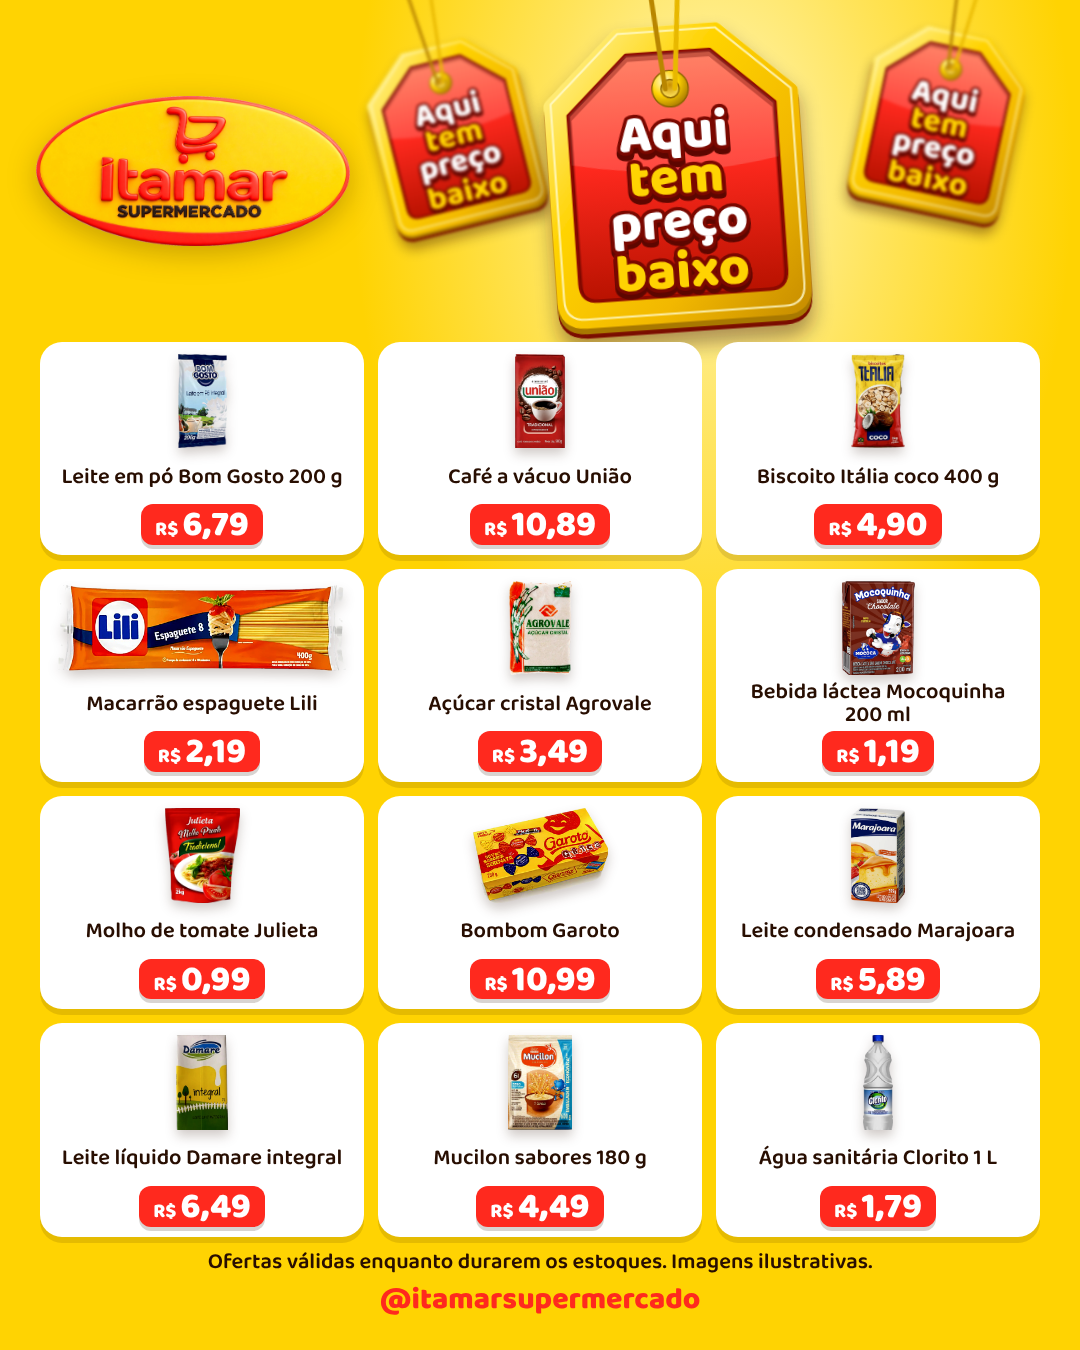
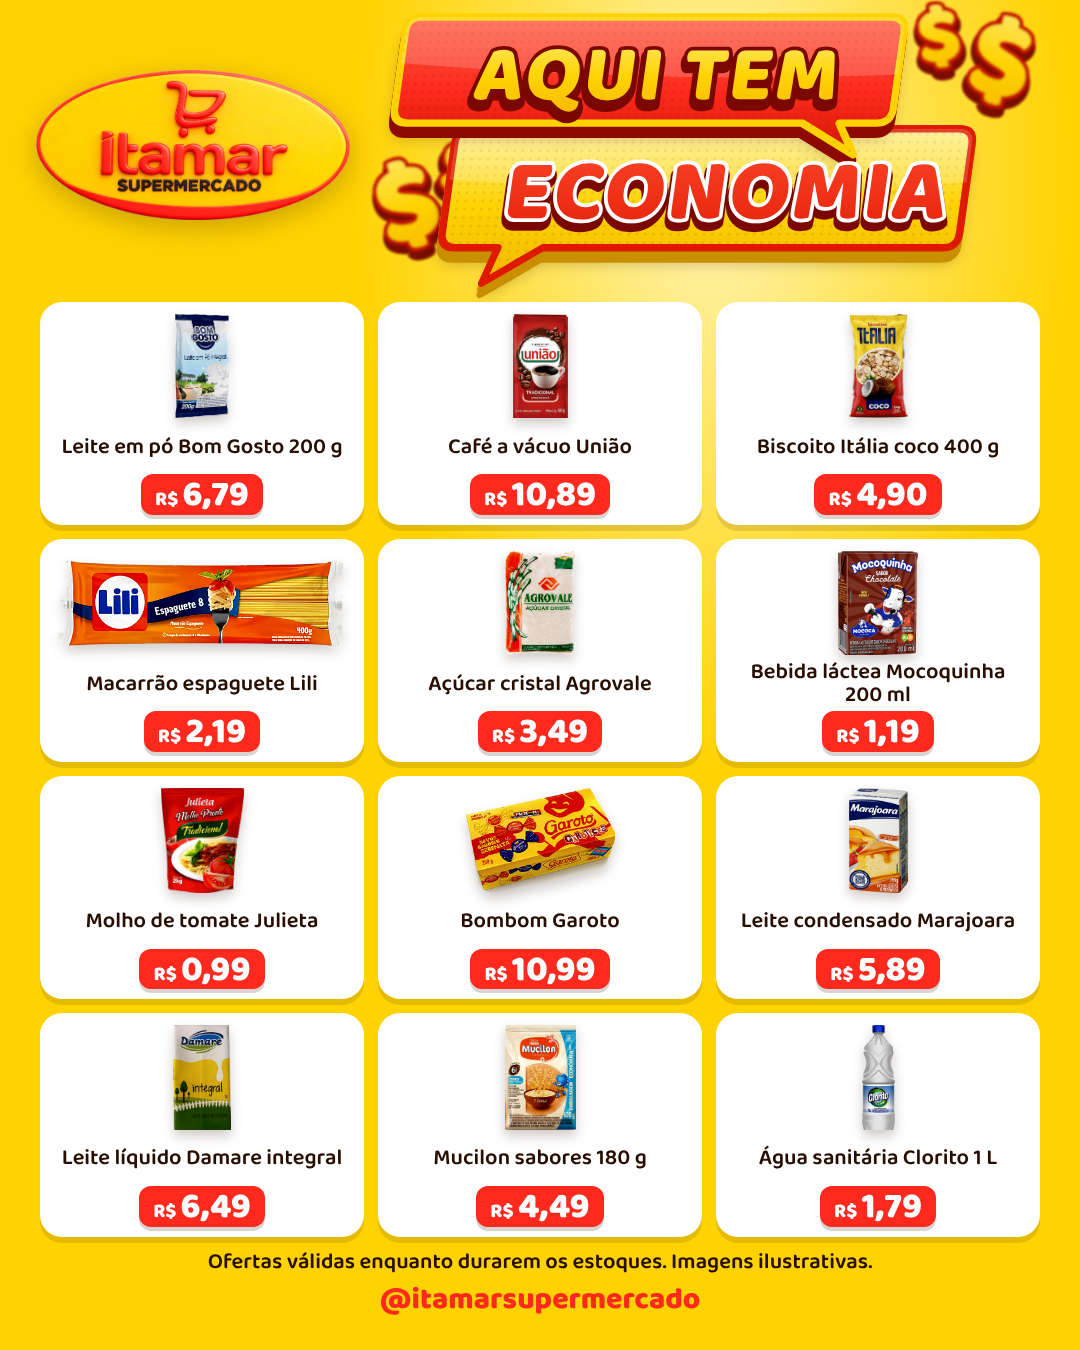
Itamar ofertas: selo 3D "Aqui tem economia" no lugar das tags
Claude-Session: https://claude.ai/code/session_01RAcsiCUqH9iCNBekL3L4L7

diff --git a/clientes/itamar-supermercado/entregas/2026-11-19-ofertas-mercearia/card-ofertas.html b/clientes/itamar-supermercado/entregas/2026-11-19-ofertas-mercearia/card-ofertas.html
@@ -4,8 +4,8 @@
 :root{--amarelo:#FFD302;--vermelho:#FF291E;--marrom:#280E01}
 *{box-sizing:border-box;margin:0}
 body{width:1080px;height:1350px;background:var(--amarelo);font-family:"Baloo 2",sans-serif;color:var(--marrom);display:flex;flex-direction:column;padding:0 40px 26px;gap:12px;background-image:radial-gradient(ellipse at 66% 13%,#FFF6B8 0,#FFE45C 170px,transparent 360px)}
-.top{position:relative;height:330px;flex:none;margin:0 -40px}
-.top>img{position:absolute;left:36px;top:96px;height:150px;filter:drop-shadow(0 8px 14px rgba(40,14,1,.25));z-index:3}
+.top{position:relative;height:290px;flex:none;margin:0 -40px}
+.top>img{position:absolute;left:36px;top:70px;height:150px;filter:drop-shadow(0 8px 14px rgba(40,14,1,.25));z-index:3}
 .top svg.t{position:absolute;overflow:visible}
 .grid{flex:1;display:grid;grid-template-columns:repeat(3,1fr);grid-template-rows:repeat(4,1fr);gap:14px}
 .p{background:#fff;border-radius:22px;padding:10px 12px 10px;display:flex;flex-direction:column;box-shadow:0 6px 0 rgba(40,14,1,.12);position:relative;min-height:0}
@@ -16,36 +16,36 @@ body{width:1080px;height:1350px;background:var(--amarelo);font-family:"Baloo 2",
 .rod{text-align:center;font:600 22px/1.25 "Baloo 2"}
 .arroba{font:800 30px "Baloo 2";color:var(--vermelho)}
 </style>
-<div class="top"><svg width="0" height="0" style="position:absolute"><defs>
-<linearGradient id="ouro" x1="0" y1="0" x2="1" y2="1"><stop offset="0" stop-color="#FFF4A0"/><stop offset=".35" stop-color="#FFD302"/><stop offset=".7" stop-color="#F2B800"/><stop offset="1" stop-color="#C98F00"/></linearGradient>
-<linearGradient id="verm" x1="0" y1="0" x2="0" y2="1"><stop offset="0" stop-color="#FF6B4A"/><stop offset=".45" stop-color="#FF291E"/><stop offset="1" stop-color="#B81200"/></linearGradient>
-<radialGradient id="ilho" cx=".35" cy=".3" r=".75"><stop offset="0" stop-color="#FFFBD0"/><stop offset=".5" stop-color="#FFD302"/><stop offset="1" stop-color="#A87800"/></radialGradient>
-<radialGradient id="furo" cx=".5" cy=".3" r=".7"><stop offset="0" stop-color="#C98F00"/><stop offset="1" stop-color="#FFE45C"/></radialGradient>
-<clipPath id="face"><path d="M130 24 H270 L372 118 V398 Q372 428 342 428 H58 Q28 428 28 398 V118 Z" transform="translate(200 226) scale(.86) translate(-200 -226)"/></clipPath>
-<filter id="sombra" x="-30%" y="-30%" width="160%" height="170%"><feDropShadow dx="0" dy="18" stdDeviation="14" flood-color="#280E01" flood-opacity=".38"/></filter>
-<symbol id="tag" viewBox="0 0 400 460" overflow="visible">
- <g filter="url(#sombra)">
-  <path d="M130 24 H270 L372 118 V398 Q372 428 342 428 H58 Q28 428 28 398 V118 Z" transform="translate(0 14)" fill="#7A0800" stroke="#7A0800" stroke-width="20" stroke-linejoin="round"/>
-  <path d="M130 24 H270 L372 118 V398 Q372 428 342 428 H58 Q28 428 28 398 V118 Z" transform="translate(0 8)" fill="#A87800" stroke="#A87800" stroke-width="20" stroke-linejoin="round"/>
-  <path d="M130 24 H270 L372 118 V398 Q372 428 342 428 H58 Q28 428 28 398 V118 Z" fill="url(#ouro)" stroke="url(#ouro)" stroke-width="20" stroke-linejoin="round"/>
- </g>
- <path d="M130 24 H270 L372 118 V398 Q372 428 342 428 H58 Q28 428 28 398 V118 Z" fill="none" stroke="#FFFBD0" stroke-width="3" opacity=".8" transform="translate(0 -3)" stroke-linejoin="round"/>
- <path d="M130 24 H270 L372 118 V398 Q372 428 342 428 H58 Q28 428 28 398 V118 Z" transform="translate(200 226) scale(.86) translate(-200 -226)" fill="url(#verm)" stroke="#8E0A00" stroke-width="6" stroke-linejoin="round"/>
- <g clip-path="url(#face)">
-  <path d="M0 0 H400 V200 Q200 250 0 190 Z" fill="#fff" opacity=".16"/>
-  <path d="M130 24 H270 L372 118 V398 Q372 428 342 428 H58 Q28 428 28 398 V118 Z" transform="translate(200 226) scale(.86) translate(-200 -226) translate(0 6)" fill="none" stroke="#5E0600" stroke-width="10" opacity=".35"/>
- </g>
- <circle cx="200" cy="104" r="26" fill="url(#ilho)" stroke="#8C6400" stroke-width="2"/>
- <circle cx="200" cy="104" r="13" fill="url(#furo)" stroke="#8C6400" stroke-width="2"/>
- <path d="M193 104 Q180 -60 150 -400" fill="none" stroke="#B98600" stroke-width="7" stroke-linecap="round"/>
- <path d="M207 104 Q222 -60 255 -400" fill="none" stroke="#E8B800" stroke-width="7" stroke-linecap="round"/>
- <g font-family="Baloo 2" font-weight="800" text-anchor="middle" stroke-linejoin="round" paint-order="stroke">
-  <g fill="#5E0600" transform="translate(0 6)" stroke="#5E0600" stroke-width="12">
-   <text x="200" y="190" font-size="76">Aqui</text><text x="200" y="254" font-size="76">tem</text><text x="200" y="316" font-size="76">preço</text><text x="200" y="388" font-size="76">baixo</text></g>
-  <g stroke="#7A0800" stroke-width="10">
-   <text x="200" y="388" font-size="76" fill="#FFD302">baixo</text><text x="200" y="316" font-size="76" fill="#fff">preço</text><text x="200" y="254" font-size="76" fill="#FFD302">tem</text><text x="200" y="190" font-size="76" fill="#fff">Aqui</text></g>
- </g>
-</symbol></defs></svg><svg class="t" viewBox="0 0 400 460" width="170" style="left:345px;top:40px;transform:rotate(-14deg);transform-origin:50% 0;filter:blur(1.6px)"><use href="#tag"/></svg><svg class="t" viewBox="0 0 400 460" width="170" style="left:875px;top:26px;transform:rotate(12deg);transform-origin:50% 0;filter:blur(1.6px)"><use href="#tag"/></svg><img src="../../identidade/logo-itamar-3d-transparente.png" alt=""><svg class="t" viewBox="0 0 400 460" width="280" style="left:525px;top:16px;transform:rotate(-4deg);transform-origin:50% 0;"><use href="#tag"/></svg></div>
+<div class="top"><img src="../../identidade/logo-itamar-3d-transparente.png" alt=""><svg class="t" viewBox="0 0 720 320" width="670" style="left:372px;top:4px">
+<defs>
+<linearGradient id="fV" x1="0" y1="0" x2="0" y2="1"><stop offset="0" stop-color="#FF5A3C"/><stop offset=".55" stop-color="#FF291E"/><stop offset="1" stop-color="#D01800"/></linearGradient>
+<linearGradient id="fA" x1="0" y1="0" x2="0" y2="1"><stop offset="0" stop-color="#FFF08A"/><stop offset=".5" stop-color="#FFD302"/><stop offset="1" stop-color="#F2B800"/></linearGradient>
+<linearGradient id="ouroT" x1="0" y1="0" x2="0" y2="1"><stop offset="0" stop-color="#FFF4A0"/><stop offset=".5" stop-color="#FFD302"/><stop offset="1" stop-color="#F0A800"/></linearGradient>
+<linearGradient id="vermT" x1="0" y1="0" x2="0" y2="1"><stop offset="0" stop-color="#FF4A30"/><stop offset="1" stop-color="#E01A00"/></linearGradient>
+<pattern id="pontos" width="9" height="9" patternUnits="userSpaceOnUse"><circle cx="4.5" cy="4.5" r="1.6" fill="#280E01" opacity=".10"/></pattern>
+<filter id="bl" x="-10%" y="-10%" width="120%" height="140%"><feGaussianBlur stdDeviation="8"/></filter>
+<filter id="bl2"><feGaussianBlur stdDeviation="1.2"/></filter>
+</defs>
+<g transform="translate(668 96) rotate(14)" font-family="Baloo 2" font-weight="800" font-size="120" text-anchor="middle" stroke-linejoin="round" paint-order="stroke" filter="url(#bl2)"><text y="8" fill="#7A0800" stroke="#7A0800" stroke-width="14">$</text><text fill="url(#ouroT)" stroke="#C41500" stroke-width="9">$</text></g><g transform="translate(612 60) rotate(-6)" font-family="Baloo 2" font-weight="800" font-size="84" text-anchor="middle" stroke-linejoin="round" paint-order="stroke" filter="url(#bl2)"><text y="8" fill="#7A0800" stroke="#7A0800" stroke-width="14">$</text><text fill="url(#ouroT)" stroke="#C41500" stroke-width="9">$</text></g><g transform="translate(48 250) rotate(-16)" font-family="Baloo 2" font-weight="800" font-size="120" text-anchor="middle" stroke-linejoin="round" paint-order="stroke" filter="url(#bl2)"><text y="8" fill="#7A0800" stroke="#7A0800" stroke-width="14">$</text><text fill="url(#ouroT)" stroke="#C41500" stroke-width="9">$</text></g><g transform="translate(92 200) rotate(10)" font-family="Baloo 2" font-weight="800" font-size="80" text-anchor="middle" stroke-linejoin="round" paint-order="stroke" filter="url(#bl2)"><text y="8" fill="#7A0800" stroke="#7A0800" stroke-width="14">$</text><text fill="url(#ouroT)" stroke="#C41500" stroke-width="9">$</text></g>
+<g transform="skewX(-8)">
+ <path d="M110 150 Q110 134 126 134 H650 Q666 134 666 150 V246 Q666 262 650 262 H220 L160 300 L172 262 H126 Q110 262 110 246 Z" transform="translate(0 16)" fill="#280E01" opacity=".25" filter="url(#bl)"/>
+ <path d="M110 150 Q110 134 126 134 H650 Q666 134 666 150 V246 Q666 262 650 262 H220 L160 300 L172 262 H126 Q110 262 110 246 Z" transform="translate(0 12)" fill="#C98F00" stroke="#C98F00" stroke-width="8" stroke-linejoin="round"/>
+ <path d="M110 150 Q110 134 126 134 H650 Q666 134 666 150 V246 Q666 262 650 262 H220 L160 300 L172 262 H126 Q110 262 110 246 Z" transform="translate(0 6)" fill="#C98F00" stroke="#C98F00" stroke-width="8" stroke-linejoin="round"/>
+ <path d="M110 150 Q110 134 126 134 H650 Q666 134 666 150 V246 Q666 262 650 262 H220 L160 300 L172 262 H126 Q110 262 110 246 Z" fill="url(#fA)" stroke="#E01A00" stroke-width="8" stroke-linejoin="round"/>
+ <clipPath id="c2"><path d="M110 150 Q110 134 126 134 H650 Q666 134 666 150 V246 Q666 262 650 262 H220 L160 300 L172 262 H126 Q110 262 110 246 Z"/></clipPath>
+ <g clip-path="url(#c2)"><rect x="0" y="0" width="700" height="320" fill="url(#pontos)"/><path d="M0 0 H700 V190 Q350 212 0 180 Z" fill="#fff" opacity=".18"/></g>
+</g>
+<g transform="skewX(-8)">
+ <path d="M40 30 Q40 14 56 14 H560 Q576 14 576 30 V112 Q576 128 560 128 H520 L540 162 L480 128 H56 Q40 128 40 112 Z" transform="translate(0 16)" fill="#280E01" opacity=".25" filter="url(#bl)"/>
+ <path d="M40 30 Q40 14 56 14 H560 Q576 14 576 30 V112 Q576 128 560 128 H520 L540 162 L480 128 H56 Q40 128 40 112 Z" transform="translate(0 12)" fill="#8E0A00" stroke="#8E0A00" stroke-width="8" stroke-linejoin="round"/>
+ <path d="M40 30 Q40 14 56 14 H560 Q576 14 576 30 V112 Q576 128 560 128 H520 L540 162 L480 128 H56 Q40 128 40 112 Z" transform="translate(0 6)" fill="#8E0A00" stroke="#8E0A00" stroke-width="8" stroke-linejoin="round"/>
+ <path d="M40 30 Q40 14 56 14 H560 Q576 14 576 30 V112 Q576 128 560 128 H520 L540 162 L480 128 H56 Q40 128 40 112 Z" fill="url(#fV)" stroke="#FFD302" stroke-width="8" stroke-linejoin="round"/>
+ <clipPath id="c1"><path d="M40 30 Q40 14 56 14 H560 Q576 14 576 30 V112 Q576 128 560 128 H520 L540 162 L480 128 H56 Q40 128 40 112 Z"/></clipPath>
+ <g clip-path="url(#c1)"><rect x="0" y="0" width="700" height="320" fill="url(#pontos)"/><path d="M0 0 H700 V70 Q350 92 0 60 Z" fill="#fff" opacity=".18"/></g>
+</g>
+<g transform="skewX(-8)" font-family="Baloo 2" font-weight="800" font-size="86" text-anchor="middle" stroke-linejoin="round" paint-order="stroke" letter-spacing="2"><text x="318" y="109" fill="#7A0800" stroke="#7A0800" stroke-width="12">AQUI TEM</text><text x="318" y="102" fill="url(#ouroT)" stroke="#7A0800" stroke-width="8">AQUI TEM</text></g>
+<g transform="skewX(-8)" font-family="Baloo 2" font-weight="800" font-size="94" text-anchor="middle" stroke-linejoin="round" paint-order="stroke" letter-spacing="2"><text x="410" y="237" fill="#7A0800" stroke="#7A0800" stroke-width="12">ECONOMIA</text><text x="410" y="230" fill="url(#vermT)" stroke="#fff" stroke-width="8">ECONOMIA</text></g>
+</svg></div>
 <div class="grid">
   <div class="p"><div class="foto" style="background-image:url(../../fotos/produtos/mercearia/leite-em-po-bom-gosto-200g.png)"></div><div class="nome">Leite em pó Bom Gosto&nbsp;200&nbsp;g</div><div class="preco"><small>R$</small>6,79</div></div>
   <div class="p"><div class="foto" style="background-image:url(../../fotos/produtos/mercearia/cafe-uniao-tradicional-500g.png)"></div><div class="nome">Café a vácuo União</div><div class="preco"><small>R$</small>10,89</div></div>
